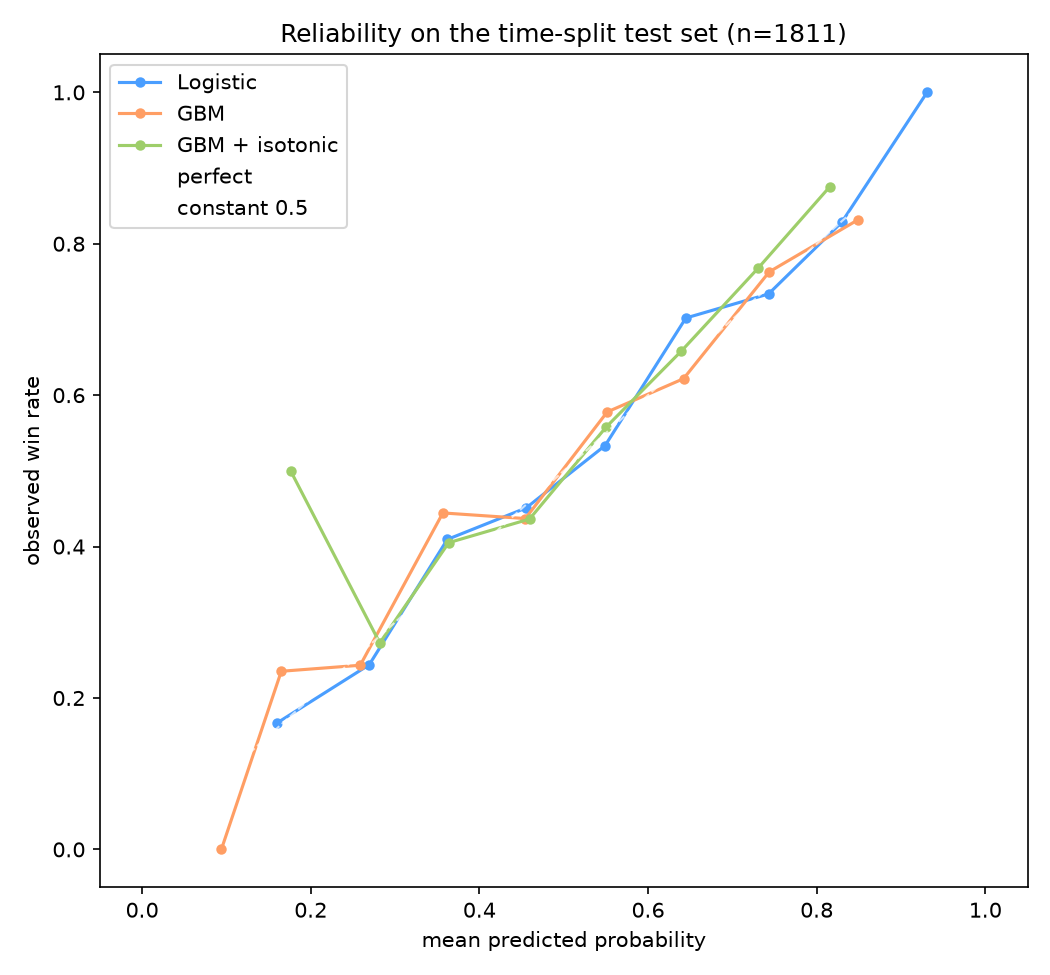
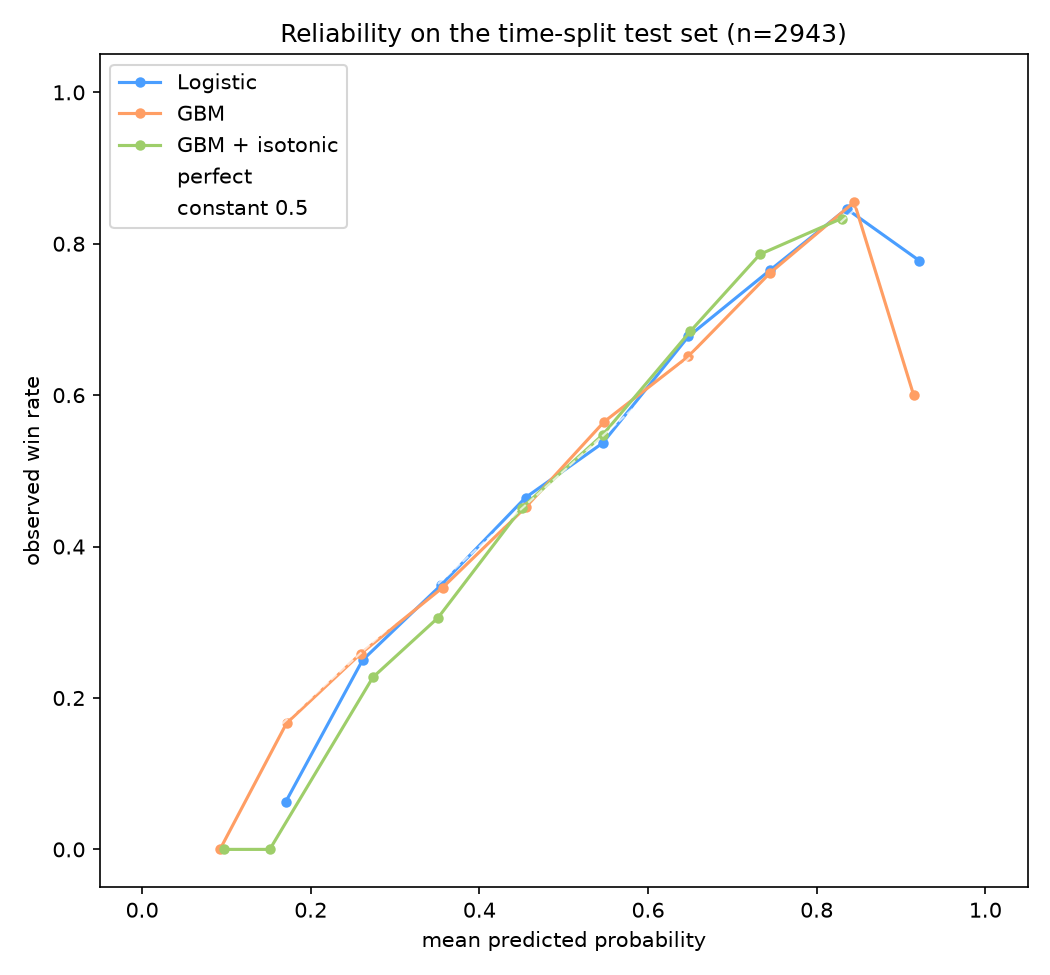
models: retrain lr-roster on Tier A refresh, re-measure table and refits

diff --git a/src/cs2analytics/models/train.py b/src/cs2analytics/models/train.py
@@ -31,7 +31,7 @@ SERIES_PATH = REPO / "outputs" / "series_clean.csv"
 #: documented best result by a whole feature family.
 ROSTER_FEATURES = ["roster_stability_diff", "standin_diff"]
 
-MODEL_VERSION = "lr-roster-2026-09-12"
+MODEL_VERSION = "lr-roster-2026-10-11"
 
 
 def main() -> None:

diff --git a/README.md b/README.md
@@ -10,39 +10,42 @@ and measures calibration on a fixed time split, not just accuracy.
 
 ## Results
 
-Time-split test set (train < 2026-01-01, n = 1,811 series). Lower logloss is better;
+Time-split test set (train < 2026-01-01, n = 2,943 series). Lower logloss is better;
 `constant_0.5` = always predict 0.5 (logloss ln 2 = 0.6931) — the floor every real
-model must beat, shown on purpose.
+model must beat, shown on purpose. Refreshed 2026-10-11 on the Tier A data
+(11,052 series); all rows re-measured except `dl_embedding` (torch re-run pending).
 
 | model | logloss | brier | acc | ece |
 |---|---|---|---|---|
-| **lr+roster** (Elo + form/rest/h2h + roster-stability/stand-in) | **0.6377** | 0.2237 | 0.6367 | 0.0185 |
-| lr (Elo diff + form/rest/h2h) | 0.6464 | 0.2278 | 0.6190 | 0.0242 |
-| elo_k32 (from-scratch engine) | 0.6472 | 0.2282 | 0.6179 | 0.0251 |
-| gbm | 0.6511 | 0.2298 | 0.6218 | 0.0255 |
-| gbm_isotonic | 0.6560 | 0.2321 | 0.6102 | 0.0190 |
-| constant_0.5 | 0.6931 | 0.2500 | 0.5721 | 0.0721 |
-| dl_embedding (PyTorch) | 0.6632 | 0.2349 | 0.6052 | — |
+| **lr+roster** (Elo + form/rest/h2h + roster-stability/stand-in) | **0.6342** | 0.2219 | 0.6306 | 0.0159 |
+| lr (Elo diff + form/rest/h2h) | 0.6496 | 0.2290 | 0.6089 | 0.0176 |
+| elo_k32 (from-scratch engine) | 0.6512 | 0.2297 | 0.6123 | 0.0301 |
+| gbm | 0.6349 | 0.2222 | 0.6371 | 0.0106 |
+| gbm_isotonic | 0.6403 | 0.2246 | 0.6306 | 0.0205 |
+| constant_0.5 | 0.6931 | 0.2500 | 0.5671 | 0.0671 |
+| dl_embedding (PyTorch, 2026-09-12 snapshot) | 0.6632 | 0.2349 | 0.6052 | — |
 
 `ece` is the Expected Calibration Error — the average gap between a stated probability and
 what actually happened. The chart built from it is
 [`outputs/fig_calibration.png`](outputs/fig_calibration.png); if the axes look cryptic,
 [`docs/CALIBRATION-README.md`](docs/CALIBRATION-README.md) walks through how to read them —
-including why `gbm_isotonic` wins on `ece` while *losing* on logloss.
+including why the plain `gbm` is now the best-calibrated row while per-tier
+`isotonic` refits lose on both metrics (rejected; measured below).
 
-Reads: a from-scratch Elo engine gets 0.647; adding form/rest/head-to-head features to a
-logistic model edges it to 0.6464; adding **roster-stability + stand-in** (the per-map
-lineups that sat unused) drops it to **0.6377** — the single biggest feature-family win in
-the repo, and it was the one thing the Limitations section had promised to try. The
-deep-learning variant *loses* to logistic — at this data size the signal is linear-ish in
-Elo space, and that honest negative is a finding. Per-regime calibration shows the
-aggregate number also hides a tier-3 problem: ECE 0.126 (vs 0.02–0.03 elsewhere).
+Reads: a from-scratch Elo engine gets 0.651; adding form/rest/head-to-head features to a
+logistic model edges it to 0.6496; adding **roster-stability + stand-in** (the per-map
+lineups that sat unused) drops the linear model to **0.6342** — still the biggest
+feature-family win for logistic. New since the refresh: with ~60% more test series the
+**GBM has caught up** (0.6349, and the best accuracy and ECE in the table) — the old
+linear-vs-GBM gap did not survive new data, and that revision is a finding. The
+deep-learning row is stale (2026-09-12 snapshot, torch re-run pending). Per-regime
+calibration still flags tier-3: ECE 0.047 (vs 0.02–0.03 elsewhere).
 Bayesian ratings (PyMC Bradley-Terry, `outputs/bayesian_ratings.csv`) quantify what Elo
 cannot: per-team uncertainty.
 
 ## Method
 
-- **Data:** 9,920 professional CS2 series (2023–2026, 3 tiers) from Kaggle; winners
+- **Data:** 11,052 professional CS2 series (2023-01 → 2026-10, 3 tiers) from Kaggle; winners
   verified against map-level evidence and two real Major finals.
 - **Elo:** the update rule derived as one SGD step on logistic log-loss; replayed
   time-ordered with pre-match ratings only (K-sweep peaks at K=32).
@@ -69,28 +72,28 @@ cannot: per-team uncertainty.
   per-regime calibration is tested: ECE is honest (0.02–0.03) at tier1/2 and
   bo1/bo3, and **tier-3 remains the weak spot** (measured refits below, none
   enabled by default).
-
 ### Per-tier calibration refits (measured)
 
-`scripts/build_tier_calibration.py` on the test split (1,811 series). `before` is the shipped
+`scripts/build_tier_calibration.py` on the test split (2,943 series). `before` is the shipped
 model; the other two columns are the refit applied to the same rows.
 
 | tier | n | ECE before | ECE isotonic | ECE platt | logloss before | logloss isotonic | logloss platt |
 |---|---|---|---|---|---|---|---|
-| tier1 | 643 | 0.0202 | 0.0411 ✗ | 0.0326 ✗ | 0.6227 | 0.6242 | 0.6228 |
-| tier2 | 926 | 0.0344 | 0.0322 | **0.0229** | 0.6522 | 0.6525 | **0.6517** |
-| tier3 | 242 | 0.0788 | 0.0616 | **0.0669** | 0.6220 | 0.7517 ✗ | **0.6199** |
-| all | 1811 | 0.0185 | 0.0317 | 0.0233 | 0.6377 | 0.6557 | **0.6372** |
+| tier1 | 1259 | 0.0335 | 0.0245 | **0.0229** | 0.6210 | 0.6441 ✗ | **0.6194** |
+| tier2 | 1327 | 0.0238 | 0.0272 | **0.0229** | 0.6411 | 0.6413 | 0.6424 |
+| tier3 | 357 | 0.0474 | 0.0715 ✗ | 0.0530 | 0.6546 | 0.7479 ✗ | 0.6572 |
+| all | 2943 | 0.0159 | 0.0224 | 0.0172 | 0.6342 | 0.6555 | 0.6344 |
 
-**Verdict.** Per-tier *isotonic* is rejected: it buys tier-3 ECE by wrecking tier-3 logloss
-(0.622 → 0.752) — the map fits bin edges, not signal. Per-tier **Platt** fixes the tiers that
-actually needed it (tier-3 ECE −15% *with* better logloss; tier-2 better on both) but costs
-tier-1 ECE, so the aggregate ECE rises while the aggregate logloss improves slightly. None of
+**Verdict.** Per-tier *isotonic* is rejected again, harder: tier-3 ECE worsens
+0.047 → 0.072 while logloss blows out 0.655 → 0.748, and the aggregate is worse on
+both (ECE 0.016 → 0.022, logloss 0.634 → 0.656) — the map fits bin edges, not signal.
+Per-tier **Platt** is the only map that helps anywhere (tier-1 better on both:
+ECE 0.034 → 0.023 with logloss 0.621 → 0.619) but costs tier-3 on both, leaving the
+aggregate essentially flat (ECE 0.016 → 0.017, logloss 0.6342 → 0.6344). None of
 this is enabled in serving by default. The actionable finding is the one already in
-`docs/DECISIONS.md`: **tier-3 needs more data** (529 train / 242 test series), not a fancier map.
-A train-only "calibrate only the tiers that look miscalibrated" rule was tested too and cannot
-discriminate here — pooled train ECE 0.0066 vs 0.0124 / 0.0220 / 0.0325 per tier, because the
-tiers' miscalibrations partly cancel in the mixture — so it degenerates to plain Platt.
+`docs/DECISIONS.md`: **tier-3 needs more data** (529 train / 357 test series), not a fancier map.
+The selective "calibrate only suspicious tiers" variant selected every tier (nothing
+skipped), so it degenerates to plain Platt.
 
 ## Reproducibility
 
@@ -107,8 +110,8 @@ python -m cs2analytics.serve.monitor                   # drift report
 `Rscript` is resolved from PATH by the Makefile (falling back to the local
 Windows install) — no hardcoded path anywhere else.
 
-The trained artifact is **`lr-roster-2026-09-12`**: the exact `lr+roster` model
-from the Results table (logloss 0.6377), including the roster features. The
+The trained artifact is **`lr-roster-2026-10-11`**: the exact `lr+roster` model
+from the Results table (logloss 0.6342), including the roster features. The
 serving API and the Streamlit demo both report `model_version` from
 `artifacts/features.json`, so the live demo is verifiably the paper's model —
 not a stale `lr` from before the roster work.

diff --git a/docs/CALIBRATION-README.md b/docs/CALIBRATION-README.md
@@ -14,19 +14,19 @@ question that matters about one:
 
 > When the model says 40%, does it actually happen 40% of the time?
 
-Binary outcome here: team1 wins, or team2 wins. 1,811 test matches.
+Binary outcome here: team1 wins, or team2 wins. 2,943 test matches.
 
 ## How each axis is built
 
-1. Score every test match → 1,811 numbers between 0 and 1.
+1. Score every test match → 2,943 numbers between 0 and 1.
 2. Sort them and cut into **10 equally-populated groups** (`reliability_table(..., bins=10)`).
 3. For each group compute two things:
    * **X** = the mean of the predicted probabilities in that group — what the model promised.
    * **Y** = the fraction of those matches actually won — what happened.
-4. Plot one point per group. Note that each point stands for **~181 matches**, not one.
+4. Plot one point per group. Note that each point stands for **~294 matches**, not one.
 
-Worked example from the figure: the blue point at **x ≈ 0.36, y ≈ 0.41** means "in the group
-where the model averaged 36%, the team actually won 41%".
+Worked example from the figure: the orange point at **x ≈ 0.36, y ≈ 0.35** means "in the group
+where the model averaged 36%, the team actually won 35%".
 
 ## Why both axes run 0 → 1
 
@@ -47,30 +47,31 @@ not rise means the probabilities are close to random.
 
 | line | model | shape |
 |---|---|---|
-| **Logistic** (blue) | logistic regression on Elo | tracks the diagonal closely |
-| **GBM** (orange) | gradient boosting | also close, with a visible miss at the bottom (x ≈ 0.12 → y ≈ 0.0) |
-| **GBM + isotonic** (green) | the same GBM with a post-hoc isotonic recalibration | pulled toward the diagonal, but breaks at the low end |
+| **Logistic** (blue) | logistic regression on Elo + form/rest/h2h/roster | tracks the diagonal closely |
+| **GBM** (orange) | gradient boosting | the closest tracker (ECE 0.0106 — e.g. x ≈ 0.26 → y ≈ 0.26, x ≈ 0.65 → y ≈ 0.65) |
+| **GBM + isotonic** (green) | the same GBM with a post-hoc isotonic recalibration | close in the middle, thin at the extremes (top bin empty; low bins pool few matches) |
 | **perfect** | the diagonal itself | a reference, not a model |
 | **constant 0.5** | predicting 0.5 for everything | the baseline — a single point at x = 0.5, y = the base win rate |
 
-## The anomaly at the left edge, and what it proves
+## The thin extremes, and what they prove
 
-The green line jumps to **y ≈ 0.50 at x ≈ 0.15**, then falls to ≈ 0.27. That is not a
-plotting bug — it is what isotonic regression does. To stay monotonic it pools the rare,
-very-low-probability matches into one block averaging ≈50%, which **destroys the distinction
-at the low end**.
+The green line's top bin is **empty** and its bottom bins hold 1–2 matches each
+(x ≈ 0.15 → y ≈ 0.00). That is not a plotting bug — it is what isotonic regression
+does with 2,943 test points: to stay monotonic it pools the rare, extreme-probability
+matches into blocks too small to trust, which is exactly why the per-tier isotonic
+refits in the README lose on both metrics and stay rejected.
 
-Measured in `notebooks/03_model_experiments.ipynb`:
+Re-measured on the refreshed split:
 
-    GBM logloss 0.6511 -> isotonic 0.6560     worse  (lower is better)
-    GBM ECE     0.0255 -> isotonic 0.0190     better
+    GBM logloss 0.6349 -> isotonic 0.6403     worse  (lower is better)
+    GBM ECE     0.0106 -> isotonic 0.0205     worse
 
 * **logloss** grades the predictions themselves — how good they are.
 * **ECE** (Expected Calibration Error) grades their honesty — the average gap from the diagonal.
 
-So isotonic buys honesty (ECE) at the cost of sharpness (logloss). That is the
-**honest negative** the README reports for isotonic, and this figure is the evidence. An ECE
-of ≈0.02 means the stated probability is off by about **2 percentage points** on average,
+So on this data isotonic buys neither honesty nor sharpness — a cleaner rejection
+than the old snapshot's tradeoff story. An ECE of ≈0.01 (the plain GBM row) means the
+stated probability is off by about **1 percentage point** on average,
 which is why calibrated uncertainty can be claimed as a real result rather than a hope.
 
 ## How to regenerate it

diff --git a/docs/DECISIONS.md b/docs/DECISIONS.md
@@ -17,4 +17,5 @@ One entry per design decision that a reviewer would question. Format: date, deci
 | 2026-09-11 | M11 deploy = local uvicorn; Render/HF Space left as a documented follow-up | no Docker on this machine and no secrets/persistence story needed for the portfolio demo; artifacts load from artifacts/ |
 | 2026-09-12 | Per-tier isotonic recalibration rejected | tier-3 ECE improved 0.0788→0.0616 but logloss worsened 0.622→0.752 and tier-1 got worse on both metrics; isotonic with ~8k train rows per tier overfits bin edges (same failure mode as M7's GBM+isotonic negative). Kept as an artifact (`outputs/m11_tier_calibration.csv`, `models/calibrate_tier.py`) — the honest result is "aggregate calibration is fine; per-tier refits need more tier-3 data". |
 | 2026-09-14 | Per-tier **Platt** recalibration measured, not enabled | the v1.1 candidate the plan named. Result: tier-3 ECE 0.0788→0.0669 **with** logloss 0.6220→0.6199 (both better), tier-2 better on both — but tier-1 ECE 0.0202→0.0326, so aggregate ECE rises 0.0185→0.0233 while aggregate logloss improves 0.6377→0.6372. A train-only "calibrate only the tiers that look miscalibrated" rule cannot discriminate here (pooled train ECE 0.0066 vs 0.0124/0.0220/0.0325 per tier — the tiers' errors partly cancel), so it degenerates to plain Platt; it stays a tested knob with default `select="all"`. Verdict unchanged: tier-3 needs more data (529 train / 242 test series), not a fancier map. Numbers: `scripts/build_tier_calibration.py`, README table. |
+| 2026-10-11 | Retrained + re-measured everything except DL on the Tier A refresh (test 1,811 → 2,943) | same cutoff, same code paths; GBM caught up (0.6349 ≈ lr+roster 0.6342), isotonic rejected harder, dl row labeled stale (no torch here) |
 | 2026-09-12 | Veto/pick sequencing model is impossible with this schema | the 98-column raw schema has NO veto/pick/side columns (verified by column scan) — a map-veto model needs external pick/ban data, documented as out of scope rather than faked. |

diff --git a/docs/DEPLOY.md b/docs/DEPLOY.md
@@ -5,8 +5,8 @@ Two serve surfaces exist:
 - `cs2analytics.serve.dashboard` — Streamlit demo (M12), local-first.
 
 Both load `artifacts/{model.pkl,features.json,elo_ratings.json}` at request time.
-The trained model is **lr+roster** (`MODEL_VERSION = lr-roster-2026-09-12`) — the
-same model the README headline reports (logloss 0.6377). `python -m
+The trained model is **lr+roster** (`MODEL_VERSION = lr-roster-2026-10-11`) — the
+same model the README headline reports (logloss 0.6342). `python -m
 cs2analytics.models.train` regenerates all three artifacts.
 
 ## Why the Dockerfile needs a build-arg
